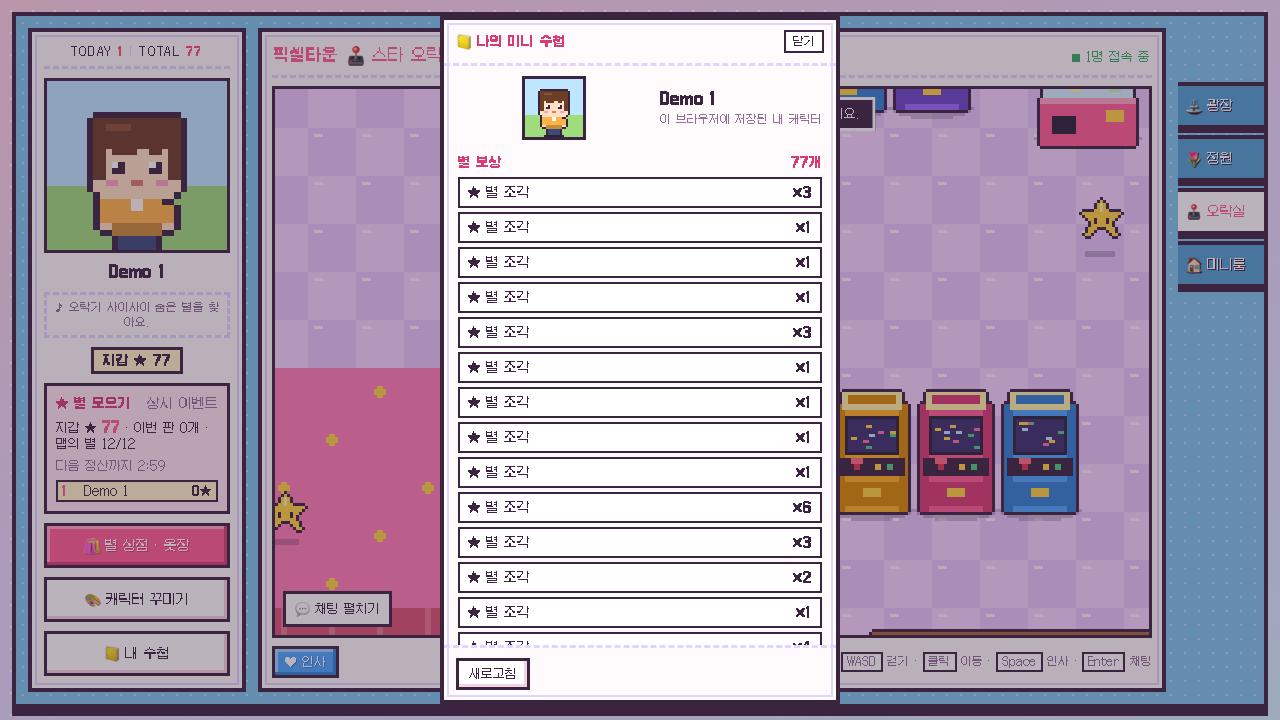
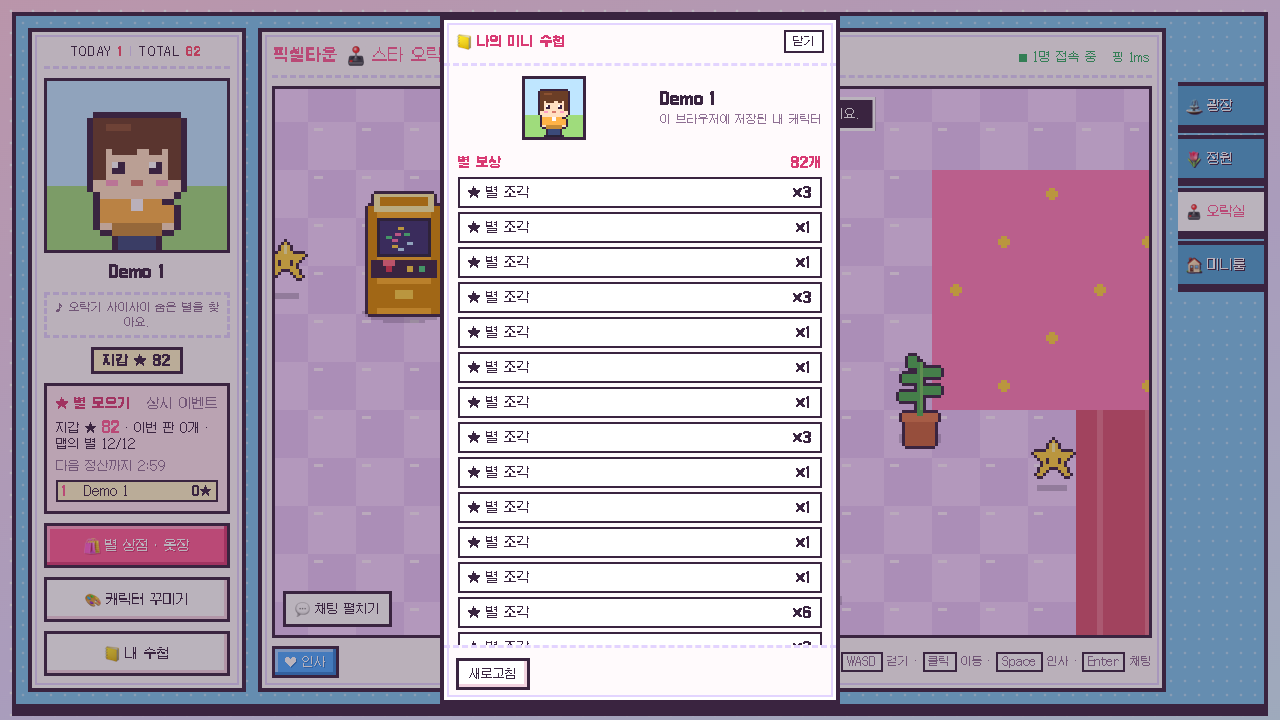
기능: 핑 표시, 끊김 기록, GitHub Actions 외부 health 감시
끊김이 집 네트워크·터널·서버 중 어디 탓인지 구분하기 위해.

- 화면: 접속 인원 옆에 게임 서버 왕복 시간(2초마다, 색 구분)
- 서버: drop·reconnect·lost를 서비스 로그에 한 줄씩, /health에 최근 1시간
  횟수(connections). 페이지 떠남(1001)은 끊김으로 세지 않음
- .github/workflows/health.yml: 10분마다 배포 주소·게임 서버·PocketBase
  health 확인(3번 재시도), 실패 시 GitHub 메일

검증: 단위 29/29(끊김 집계 테스트), 로컬 offline-check에서 로그·/health
집계 확인, 통합 17/17, UI 8/8.

diff --git a/colyseus/town.js b/colyseus/town.js
@@ -13,6 +13,14 @@ export const INITIAL_STARS=5;
 export const MAX_STARS=12;
 export const RECONNECT_SECONDS=clamp(Number(process.env.RECONNECT_SECONDS)||15,1,60);
 export { MAX_QUEUED_INPUTS };
+// Connection events of the last hour, for /health and the service log: many players dropping at once points at the
+// server or the tunnel, one player alone at that player's network.
+export const connectionEvents={drop:[],reconnect:[],lost:[]};
+const noteConnection=(type,client,room,extra='')=>{
+  const now=Date.now(),list=connectionEvents[type];list.push(now);while(list.length&&list[0]<now-3600000)list.shift();
+  console.log(`${new Date(now).toISOString()} connection ${type} zone=${room.zone} user=${room.players.get(client.sessionId)?.id||'-'} players=${room.players.size}${extra}`);
+};
+export const connectionSummary=()=>{const since=Date.now()-3600000;return Object.fromEntries(Object.entries(connectionEvents).map(([k,v])=>[`${k}1h`,v.filter(t=>t>=since).length]));};
 export const MAX_MATCH_SCORE=64; // PocketBase hook limit per settlement
 export const STAR_SPAWN_INTERVAL_MS=clamp(Number(process.env.STAR_SPAWN_INTERVAL_MS)||STAR_SPAWN_MS,1000,60000);
 // The star event never stops; scores are settled (saved) every period and the next period starts right away.
@@ -23,6 +31,7 @@ export class Town extends Room {
     this.zone=options.zone;this.map=getMap(this.zone);this.maxClients=32;this.maxMessagesPerSecond=40;
     this.players=new Map();this.moveInputs=new Map();this.cooldowns=new Map(); // `inputs` is reserved by Colyseus 0.18
     this.held=new Map(); // dropped sessions waiting to reconnect
+    this.dropped=new Set(); // ...and whether they came back (for connection stats)
     this.game={active:false,endsAt:0,stars:[],scores:{}};
     this.setMetadata({zone:this.zone});
     this.onMessage('input',(client,data)=>{
@@ -186,13 +195,19 @@ export class Town extends Room {
   // If it does not come back in time, onLeave removes the player as usual.
   // A join refused in onJoin (e.g. 409) also lands here: it was never joined, so there is nothing to keep, and a rejected
   // allowReconnection must never escape (an unhandled rejection stops the whole server).
-  onDrop(client) {
+  onDrop(client,code) {
     this.moveInputs.delete(client.sessionId);
     if(!this.players.has(client.sessionId))return;
+    // 1001 = the page went away (tab closed, reload): an ordinary exit, not a network drop, so it is not counted.
+    if(code!==1001){noteConnection('drop',client,this,` code=${code}`);this.dropped.add(client.sessionId);}
     const wait=this.allowReconnection(client,RECONNECT_SECONDS);this.held.set(client.sessionId,wait);
     wait.then(()=>this.held.delete(client.sessionId),()=>this.held.delete(client.sessionId));
   }
+  onReconnect(client) {
+    if(this.dropped.delete(client.sessionId))noteConnection('reconnect',client,this);
+  }
   onLeave(client) {
+    if(this.dropped.delete(client.sessionId))noteConnection('lost',client,this);
     this.players.delete(client.sessionId);this.moveInputs.delete(client.sessionId);
     for(const key of this.cooldowns.keys())if(key.startsWith(client.sessionId+':'))this.cooldowns.delete(key);
     if(!this.players.size && this.game.active)this.finish();

diff --git a/game/src/main.jsx b/game/src/main.jsx
@@ -69,7 +69,7 @@ function App() {
   const pred = useRef(null), pending = useRef([]), seq = useRef(0), glide = useRef(null), serverClock = useRef({ samples: [], offset: 0 });
   const stall = useRef({ x: 0, y: 0, n: 0 }), route = useRef([]), marker = useRef(null), state = useRef({ players: [], game: {} }), bubbles = useRef({}), emotes = useRef({});
   const trails = useRef({}), selfId = useRef("me"), soloPos = useRef(null), entry = useRef("default"), portalArmed = useRef(false), chatVisible = useRef(chatOpen);
-  const [joinTry, setJoinTry] = useState(0), rejoining = useRef(false), lastAutoJoin = useRef(0);
+  const [joinTry, setJoinTry] = useState(0), rejoining = useRef(false), lastAutoJoin = useRef(0), [ping, setPing] = useState(null);
   // Stars I collected that are not in my inventory yet (settled every 3 minutes): period id -> my score in it.
   const ledger = useRef({});
   const picked = useRef({}), corrections = useRef([]), persistStatus = useRef(null), chatInput = useRef(null), lastSent = useRef("");
@@ -227,6 +227,14 @@ function App() {
       room.current?.leave(); room.current = null;
     };
   }, [entered, user, zone, joinTry]);
+
+  // Round trip to the game server every 2 s, shown next to the player count (green / yellow / red).
+  useEffect(() => {
+    if (status !== "online") { setPing(null); return; }
+    const measure = () => room.current?.ping(ms => setPing(Math.round(ms)));
+    measure(); const timer = setInterval(measure, 2000);
+    return () => clearInterval(timer);
+  }, [status, zone, joinTry]);
 
   // input: keyboard / d-pad / click route, sent to the server every tick
   useEffect(() => {
@@ -447,6 +455,7 @@ function App() {
           <header className="room-title">
             <b className="brand">픽셀타운</b><span className="zone-name">{zoneInfo[1]} {map.title}</span><small className="url">pixel.town/{map.slug}</small>
             <span className={`online ${status}`}>{status === "online" ? `${online}명 접속 중` : zone === "home" ? "나만의 방" : status === "connecting" ? "연결 중…" : "연결 끊김"}</span>
+            {ping !== null && <span className={`ping ${ping < 150 ? "good" : ping < 400 ? "slow" : "bad"}`} title="게임 서버까지 왕복 시간">핑 {ping}ms</span>}
           </header>
           <div className="stage" onPointerDown={onStagePointer}>
             <canvas ref={canvasRef} className="world" aria-label={`${map.title} 미니룸. 화면을 누르면 그곳으로 걸어가요.`} />

diff --git a/colyseus/test/stars.test.js b/colyseus/test/stars.test.js
@@ -1,6 +1,6 @@
 import test from 'node:test';
 import assert from 'node:assert/strict';
-import { Town, INITIAL_STARS, MAX_STARS, STAR_SPAWN_INTERVAL_MS, RECONNECT_SECONDS, MAX_QUEUED_INPUTS } from '../town.js';
+import { Town, INITIAL_STARS, MAX_STARS, STAR_SPAWN_INTERVAL_MS, RECONNECT_SECONDS, MAX_QUEUED_INPUTS, connectionSummary } from '../town.js';
 const T=STAR_SPAWN_INTERVAL_MS;
 import { outbox } from '../outbox.js';
 // Never touch the real outbox directory from unit tests.
@@ -9,7 +9,7 @@ import { getMap, blocked, starSpots, touchesStar } from '../../shared/world.js';
 function room() {
   const r=Object.create(Town.prototype);r.map=getMap('lobby');
   r.players=new Map([['session',{id:'player',...r.map.spawn}]]);
-  r.moveInputs=new Map();r.held=new Map();r.snapshot=()=>{};
+  r.moveInputs=new Map();r.held=new Map();r.dropped=new Set();r.cooldowns=new Map();r.zone='lobby';r.snapshot=()=>{};
   r.broadcast=()=>{};
   r.startGame(1000);return r;
 }
@@ -150,5 +150,16 @@ test('steps follow real time, not tick count: late ticks (52 ms) never let a wal
   assert(e.queue.length<=2,`queued ${e.queue.length} steps behind`);
   assert(p.ack>=seq-2,'acknowledged up to the latest steps');
   assert(p.x-x0<=3*seq+0.01,'never more than one step per input');
+});
+
+test('connection stats: a drop that comes back counts as reconnect, one that does not as lost',()=>{
+  const r=room(),before=connectionSummary();r.allowReconnection=()=>{const d=new Promise(()=>{});d.reject=()=>{};return d;};
+  r.players.set('other',{id:'p2',x:0,y:0});
+  r.onDrop({sessionId:'session'},1006);r.onReconnect({sessionId:'session'});
+  r.onDrop({sessionId:'other'},1006);r.onLeave({sessionId:'other'});
+  r.onReconnect({sessionId:'never-dropped'});
+  r.players.set('closing',{id:'p3',x:0,y:0});r.onDrop({sessionId:'closing'},1001);r.onLeave({sessionId:'closing'}); // tab closed: not a drop
+  const after=connectionSummary();
+  assert.deepEqual([after.drop1h-before.drop1h,after.reconnect1h-before.reconnect1h,after.lost1h-before.lost1h],[2,1,1]);
 });
 

diff --git a/colyseus/server.js b/colyseus/server.js
@@ -4,7 +4,7 @@ import express from 'express';
 import { Server } from '@colyseus/core';
 import { WebSocketTransport } from '@colyseus/ws-transport';
 import { monitor } from '@colyseus/monitor';
-import { Town } from './town.js';
+import { Town, connectionSummary } from './town.js';
 import { outbox } from './outbox.js';
 import { PB_URL, userClient } from './config.js';
 import { pocketbaseAdminGuard } from './monitor-auth.js';
@@ -30,7 +30,7 @@ app.use((req,res,next)=>{
 // The outbox superuser in .env is a service account: it saves results but may not open the monitor.
 const monitorDenied=new Set([process.env.PB_ADMIN_EMAIL].filter(Boolean).map(e=>e.toLowerCase()));
 app.use('/monitor',pocketbaseAdminGuard(PB_URL,monitorOrigins,monitorDenied),monitor({prefix:'/monitor'}));
-app.get('/health',(_req,res)=>res.json({ok:true,service:'pixeltown-colyseus',persistence:outbox.status()}));
+app.get('/health',(_req,res)=>res.json({ok:true,service:'pixeltown-colyseus',persistence:outbox.status(),connections:connectionSummary()}));
 app.get('/health/pocketbase',async(_req,res)=>{
   try {
     const r=await fetch(`${PB_URL}/api/health`,{signal:AbortSignal.timeout(5000)});

diff --git a/game/src/style.css b/game/src/style.css
@@ -97,6 +97,8 @@ kbd { display: inline-block; padding: 0 4px; border: 2px solid var(--line); back
 .online { margin-left: auto; font-size: 12px; color: var(--ok); }
 .online::before { content: ""; display: inline-block; width: 8px; height: 8px; margin-right: 6px; background: currentColor; }
 .online.connecting { color: var(--blue-d); } .online.disconnected { color: #e0344f; } .online.solo { color: var(--muted); }
+.online.reconnecting { color: #e0344f; }
+.ping { margin-left: 8px; font-size: 11px; white-space: nowrap; } .ping.good { color: var(--ok); } .ping.slow { color: #c98a00; } .ping.bad { color: #e0344f; }
 
 .stage { position: relative; flex: 1; min-height: 0; border: 3px solid var(--line); background: #3a2440; overflow: hidden; touch-action: none; user-select: none; -webkit-user-select: none; cursor: pointer; }
 .world { position: absolute; inset: 0; width: 100%; height: 100%; display: block; }

diff --git a/docs/03_PROJECT_STATUS.md b/docs/03_PROJECT_STATUS.md
@@ -86,7 +86,7 @@
 
 ## 6. 다음 작업
 
-0. (2026-10-02 사용자 제안) 핑 표시·끊김 기록·외부 health 모니터링으로 끊김 원인(집 네트워크/터널/서버) 구분.
+0. 완료(2026-10-02): 핑 표시·끊김 기록(`/health` `connections`, 서비스 로그)·GitHub Actions 외부 감시. 끊김이 다시 보고되면 `/health`와 Actions 실행 기록부터 본다.
 1. 디자인은 승인됐다(2026-10-02). 새 디자인 피드백이 오면 반영한다.
 2. 채팅 신고·숨김, 다른 기기에서 이어 하기(계정 연결)는 필요해지면 계획한다.
 3. 한 장소 32명 초과를 한 화면에 보여야 하는 요구가 확정되면 delta snapshot·관심 영역을 설계한다. 현재는 채널 방 자동 분할이다.
@@ -163,6 +163,7 @@ UI에서 `sort:-created` 조회가 400인 문제를 발견했다. 신규 PocketB
 | 연결 끊김 차단·자동 재접속·불안정 연결 떨림(입력 대기열 20) | PASS | RECHECKED | 2026-10-02 | 해당 커밋 | CURRENT | verification 18절: 단위26·통합17·UI8·원격8/8, `offline-check` 4경우 PASS(로컬·배포 주소), `JITTER=0/300/600 motion-check` 보정 0 |
 | 이동 위치 롤백(시간 기반 크레딧 상한 1초·장소 이동 시 이전 방 메시지·맵·연결 멈춤 시 예측 중지) | PASS | RECHECKED | 2026-10-02 | `abebbb7` | CURRENT | verification 19절, `rollback-check` 배포 주소 오락실 60초 0·0, 지연 300ms 0, 로컬 지연 1.5·3초 0 |
 | 지갑 즉시 반영·정산 대기 표시·+1 | PASS | RECHECKED | 2026-10-02 | `323faf7` | CURRENT | verification 20절, `wallet-check` 로컬·배포 주소 |
+| 핑 표시·끊김 기록·외부 감시 | PASS | RECHECKED | 2026-10-02 | 해당 커밋 | CURRENT | 단위 29/29(끊김 집계), 로컬 offline-check 로그·`/health`, UI 8/8, Actions 수동 실행 |
 | 디자인 승인 | PASS | USER | 2026-10-02 | `b69fbcb` | CURRENT | 사용자 승인(배포 주소 화면 기준) |
 | 실제 모바일 기기·키보드 | NOT_RUN | NONE | - | - | UNKNOWN | 에뮬레이션만 |
 | 공개 경로 부하·인터넷 지연·한 화면 100명·관리자 Monitor 로그인 | NOT_RUN | NONE | - | - | UNKNOWN | 정책상 금지 또는 관리자 암호 미사용 |

diff --git a/docs/02_TECH_SPEC.md b/docs/02_TECH_SPEC.md
@@ -245,3 +245,9 @@ macOS start.command도 로컬 실행 진입점이다. dev:all은 기본 PB 18090
 - 별을 먹는 순간 노란 점 효과와 함께 "+1"이 0.8초 동안 떠오른다.
 - 측정: `tests/wallet-check.mjs`(짧은 `GAME_DURATION_MS` 서버 권장, 배포 주소는 `SETTLE_MS=200000`).
 
+## 핑·끊김 기록·외부 감시 (2026-10-02)
+
+- 화면: 방 제목줄 접속 인원 옆에 게임 서버 왕복 시간을 2초마다 표시한다(SDK `room.ping`, 150ms 미만 초록·400ms 미만 노랑·그 이상 빨강).
+- 서버: 끊김(`drop`)·같은 세션 복귀(`reconnect`)·복귀 실패(`lost`)를 서비스 로그(`server.out.log`)에 한 줄씩 남긴다(시각·장소·사용자 id·방 인원·종료 코드). 페이지를 떠난 종료(1001, 탭 닫기·새로고침)는 끊김으로 세지 않는다. `/health`의 `connections`에 최근 1시간 횟수(`drop1h`·`reconnect1h`·`lost1h`)를 둔다. 같은 시각 여러 사람이 끊기면 서버·터널, 한 사람만이면 그 사람의 네트워크다.
+- 외부 감시: `.github/workflows/health.yml`이 GitHub에서 10분마다 배포 주소·게임 서버 health·PocketBase health를 확인한다(3번 재시도). 실패하면 실행이 실패로 남고 GitHub가 저장소 소유자에게 메일을 보낸다. 실행 요약에 health 응답(끊김 집계 포함)이 남는다. GitHub 예약 실행은 몇 분 늦을 수 있고, 저장소에 60일 동안 활동이 없으면 멈춘다.
+
